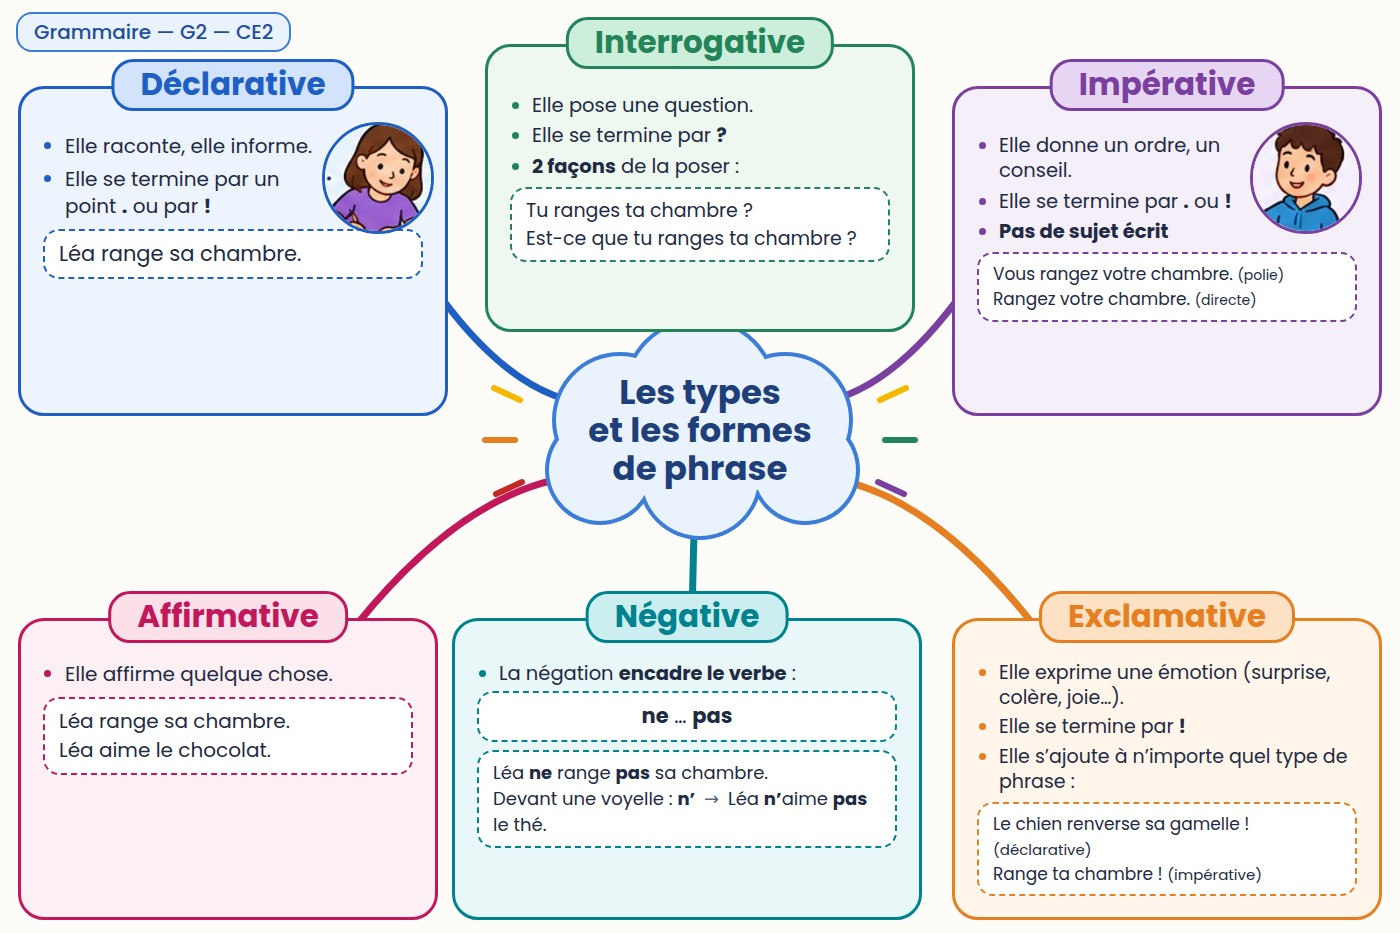
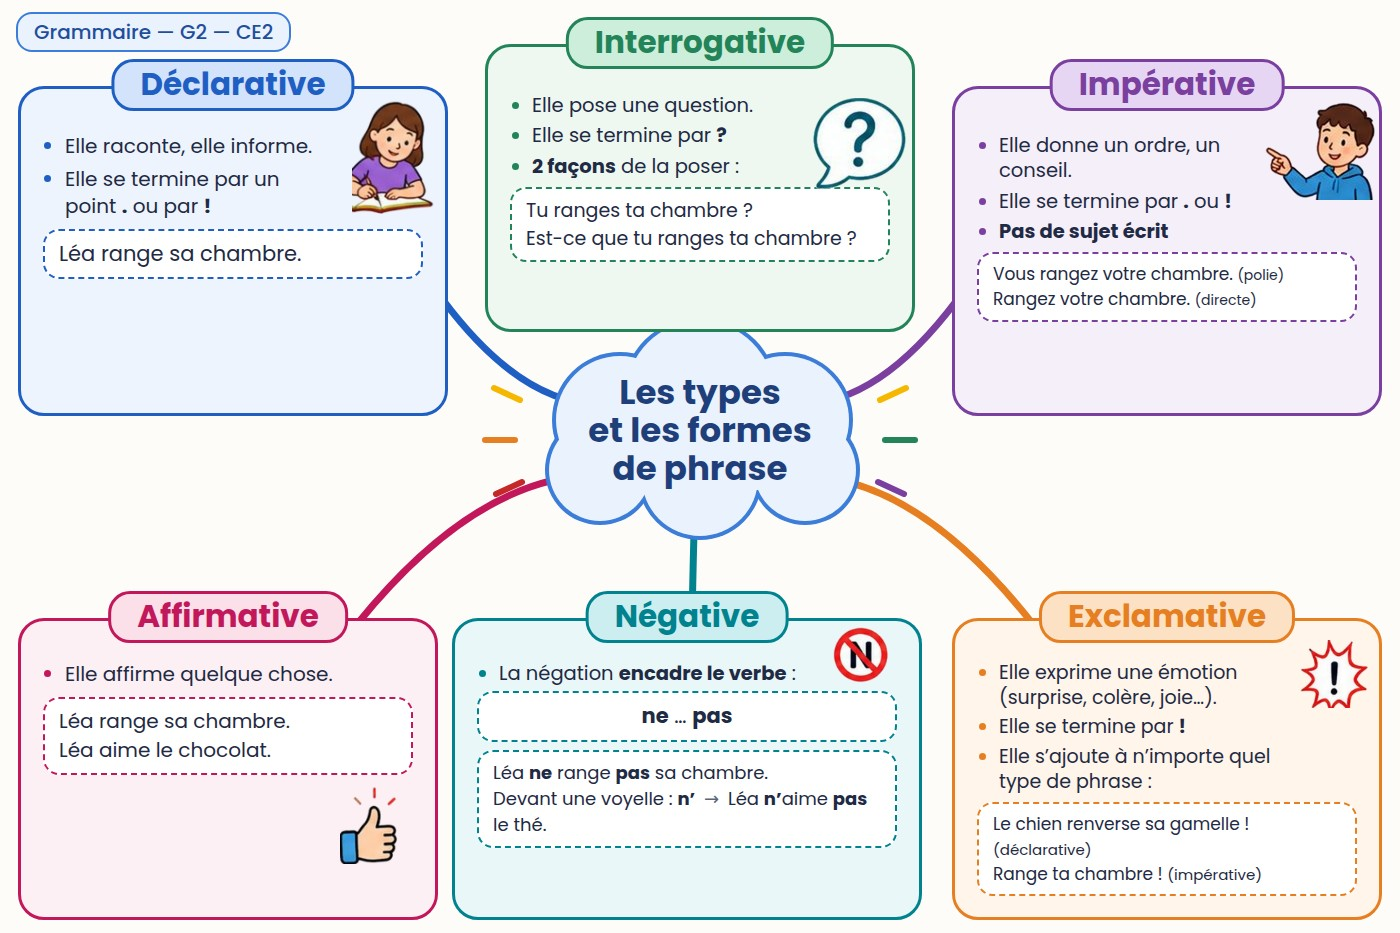
G2 : vrais dessins (enfants et pictos découpés de la carte CM1 d'origine) sur les trois cartes, à la place des médaillons

diff --git a/outils/lecons/g2_cartes.py b/outils/lecons/g2_cartes.py
@@ -40,15 +40,15 @@ def carte(lid, chip, niveau):
     else:
         neg = '''<ul style="font-size:19px;line-height:1.3;margin-top:-10px"><li>La négation <b>encadre le verbe</b> :</li></ul><div class="ex" style="font-size:19px;margin-top:4px;text-align:center">ne… pas, ne… jamais, ne… plus,<br>ne… rien, ne… personne</div>''' + \
               EX('Léa <b>ne</b> range <b>jamais</b> sa chambre.<br>Devant une voyelle : <b>n’</b> <span class="arrow">→</span> Léa <b>n’</b>écrit <b>rien</b>.', 18)
-    exc = '''<ul style="font-size:19px;line-height:1.3;margin-top:-10px"><li>Elle exprime une émotion (surprise, colère, joie…).</li><li>Elle se termine par <b>!</b></li><li>Elle s’ajoute à n’importe quel type de phrase :</li></ul>''' + \
+    exc = '''<ul style="padding-right:84px;font-size:19px;line-height:1.3;margin-top:-10px"><li>Elle exprime une émotion (surprise, colère, joie…).</li><li>Elle se termine par <b>!</b></li><li>Elle s’ajoute à n’importe quel type de phrase :</li></ul>''' + \
           EX('Le chien renverse sa gamelle ! <span style="font-size:15px">(déclarative)</span><br>Range ta chambre ! <span style="font-size:15px">(impérative)</span>', 17)
     boxes = [
-     dict(id='decl', col='bleu', geom=TL, title=tl_title, avatar=('girl', 322, 122), html=decl, hstyle=''),
-     dict(id='inter', col='vert', geom=TC, title=inter_t, html=inter),
-     dict(id='imp', col='violet', geom=TR, title='Impérative', avatar=('boy', 1250, 122), html=imp),
-     dict(id='aff', col='rose', geom=AFF, title='Affirmative', html=aff, style='padding-top:50px'),
-     dict(id='neg', col='turquoise', geom=NEG, title='Négative', html=neg, style='padding-top:50px'),
-     dict(id='excl', col='orange', geom=EXC, title='Exclamative', html=exc, style='padding-top:50px'),
+     dict(id='decl', col='bleu', geom=TL, title=tl_title, figs=[('girl', 352, 98, 84)], html=decl, hstyle=''),
+     dict(id='inter', col='vert', geom=TC, title=inter_t, html=inter, figs=[('q', 810, 98, 100)]),
+     dict(id='imp', col='violet', geom=TR, title='Impérative', figs=[('boy', 1262, 98, 116)], html=imp),
+     dict(id='aff', col='rose', geom=AFF, title='Affirmative', html=aff, figs=[('thumb', 340, 785, 62)], style='padding-top:50px'),
+     dict(id='neg', col='turquoise', geom=NEG, title='Négative', html=neg, figs=[('no', 832, 626, 58)], style='padding-top:50px'),
+     dict(id='excl', col='orange', geom=EXC, title='Exclamative', html=exc, figs=[('burst', 1295, 640, 78)], style='padding-top:50px'),
     ]
     legend = ''
     titre = 'Les types<br>et les formes<br>de phrase'

diff --git a/outils/mapgen.py b/outils/mapgen.py
@@ -64,6 +64,9 @@ def build(lid, titre, chip, legend, boxes, sub='', title_size=40, legend_pos='ri
             who, x, y = b['avatar']
             pos = 'left:-14%;top:-6%;width:125%;height:125%' if who == 'girl' else 'left:-22%;top:-4%;width:130%;height:130%'
             parts.append(f'<div class="avw" style="--c:{c};left:{x}px;top:{y}px"><img src="file://{D}/img/G2_{who}.jpeg" style="{pos}"></div>')
+    for b in boxes:   # images posées sur un cadre (dessins découpés de la carte d'origine, outils/img/g2/) : fig = (nom, x, y, largeur)
+        for nom, x, y, w in b.get('figs', []):
+            parts.append(f'<img src="file://{D}/img/g2/{nom}.png" style="position:absolute;left:{x}px;top:{y}px;width:{w}px">')
     branches = ''.join(branch(b) for b in boxes)
     html = f'''<!doctype html><html lang="fr"><head><meta charset="utf-8"><style>{CSS}</style></head><body>
 <svg class="bg" width="1400" height="933" viewBox="0 0 1400 933">

diff --git a/CLAUDE.md b/CLAUDE.md
@@ -50,7 +50,7 @@ Site des leçons interactives (ceintures de français CM1) publié avec GitHub P
   une ceinture absente de la classe demandée ouvre la leçon d'une autre classe qui l'a (21/10/2026).
 - Sommaire par classe : boutons CE2 / CM1 / CM2 (adresse `#niveau=CE2`…). Une leçon sans champ `niveau`
   est rangée en CM1 ; pour une leçon d'une autre classe, ajouter `niveau:'CE2'` ou `niveau:'CM2'` dans `TRACES`.
-- Cartes de G2 (13/11/2026) : les trois (`G2`, `G2-CE2`, `G2-CM2`) sont fabriquées par `outils/lecons/g2_cartes.py` (même apparence ; la carte CM1 était une image à part). `python3 outils/lecons/g2_cartes.py`, puis copier `outils/sortie/G2*_carte.jpeg` dans `images/`.
+- Cartes de G2 (13/11/2026) : les trois (`G2`, `G2-CE2`, `G2-CM2`) sont fabriquées par `outils/lecons/g2_cartes.py` (même apparence ; dessins des enfants et pictos = images découpées de la carte CM1 d’origine, `outils/img/g2/*.png`, jamais redessinés). `python3 outils/lecons/g2_cartes.py`, puis copier `outils/sortie/G2*_carte.jpeg` dans `images/`.
 - CM2 : mêmes numéros, mêmes couleurs, mêmes notions qu'en CM1 (choix de l'enseignante, octobre 2026).
   Une leçon CM2 (id `XX-CM2`, code affiché `XX`) = la leçon CM1 + les écrans de `CM2_PLUS` (étiquette « CM2 »,
   placés après le dernier écran de leur section) + un encadré « En CM2, j'apprends aussi » sous la carte.
